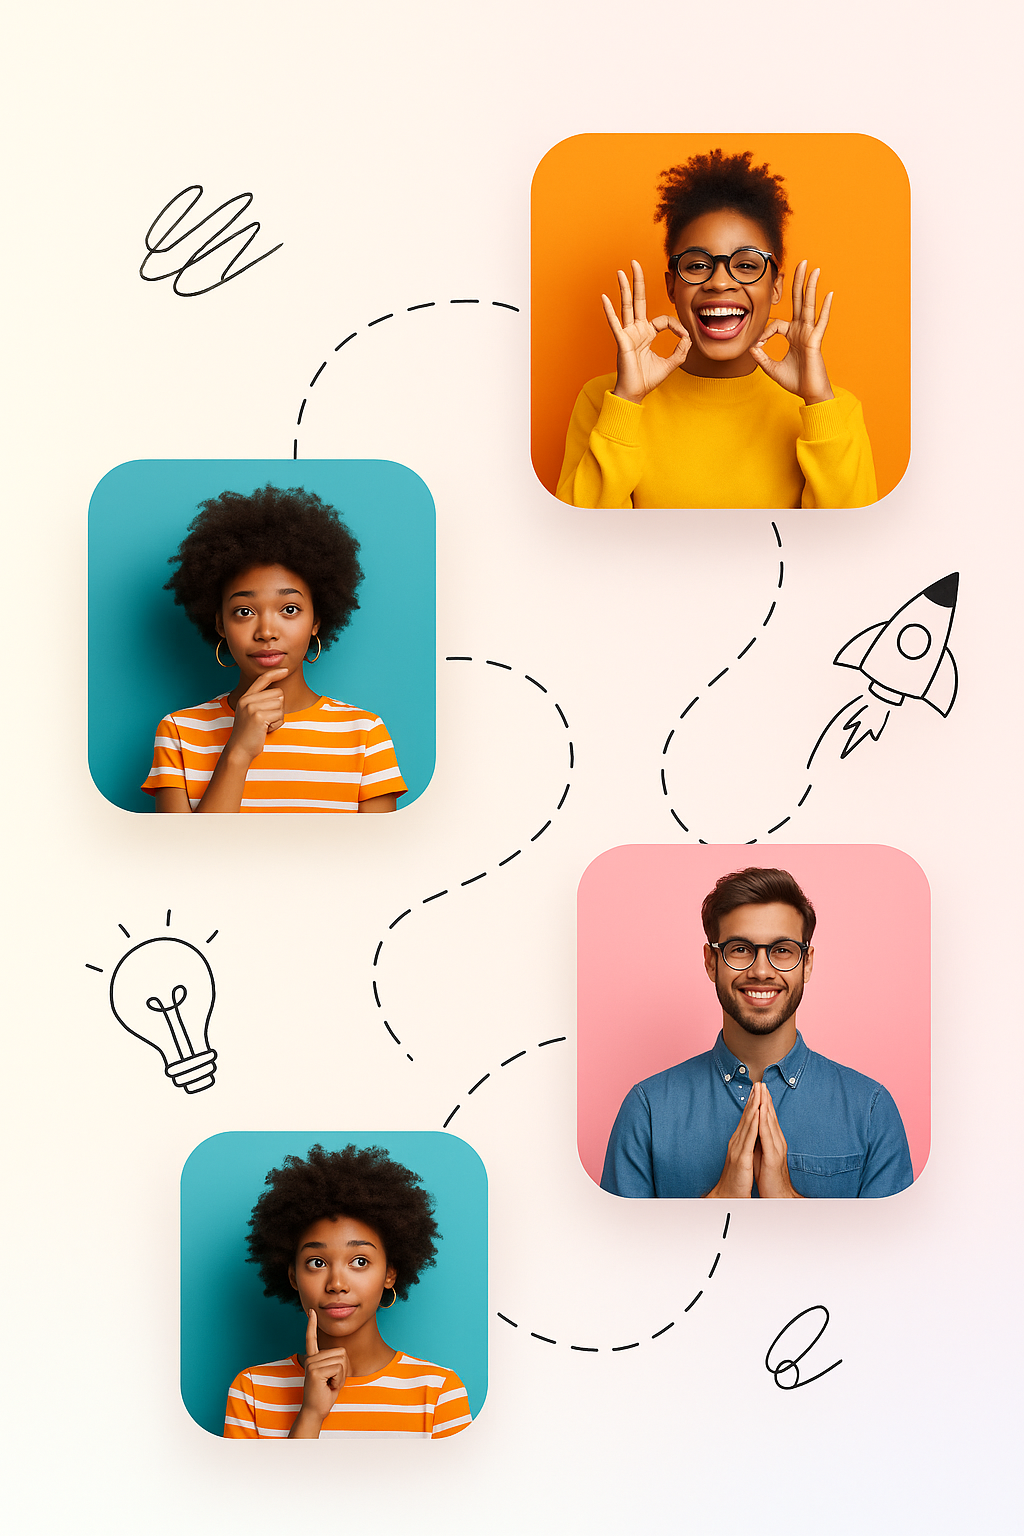
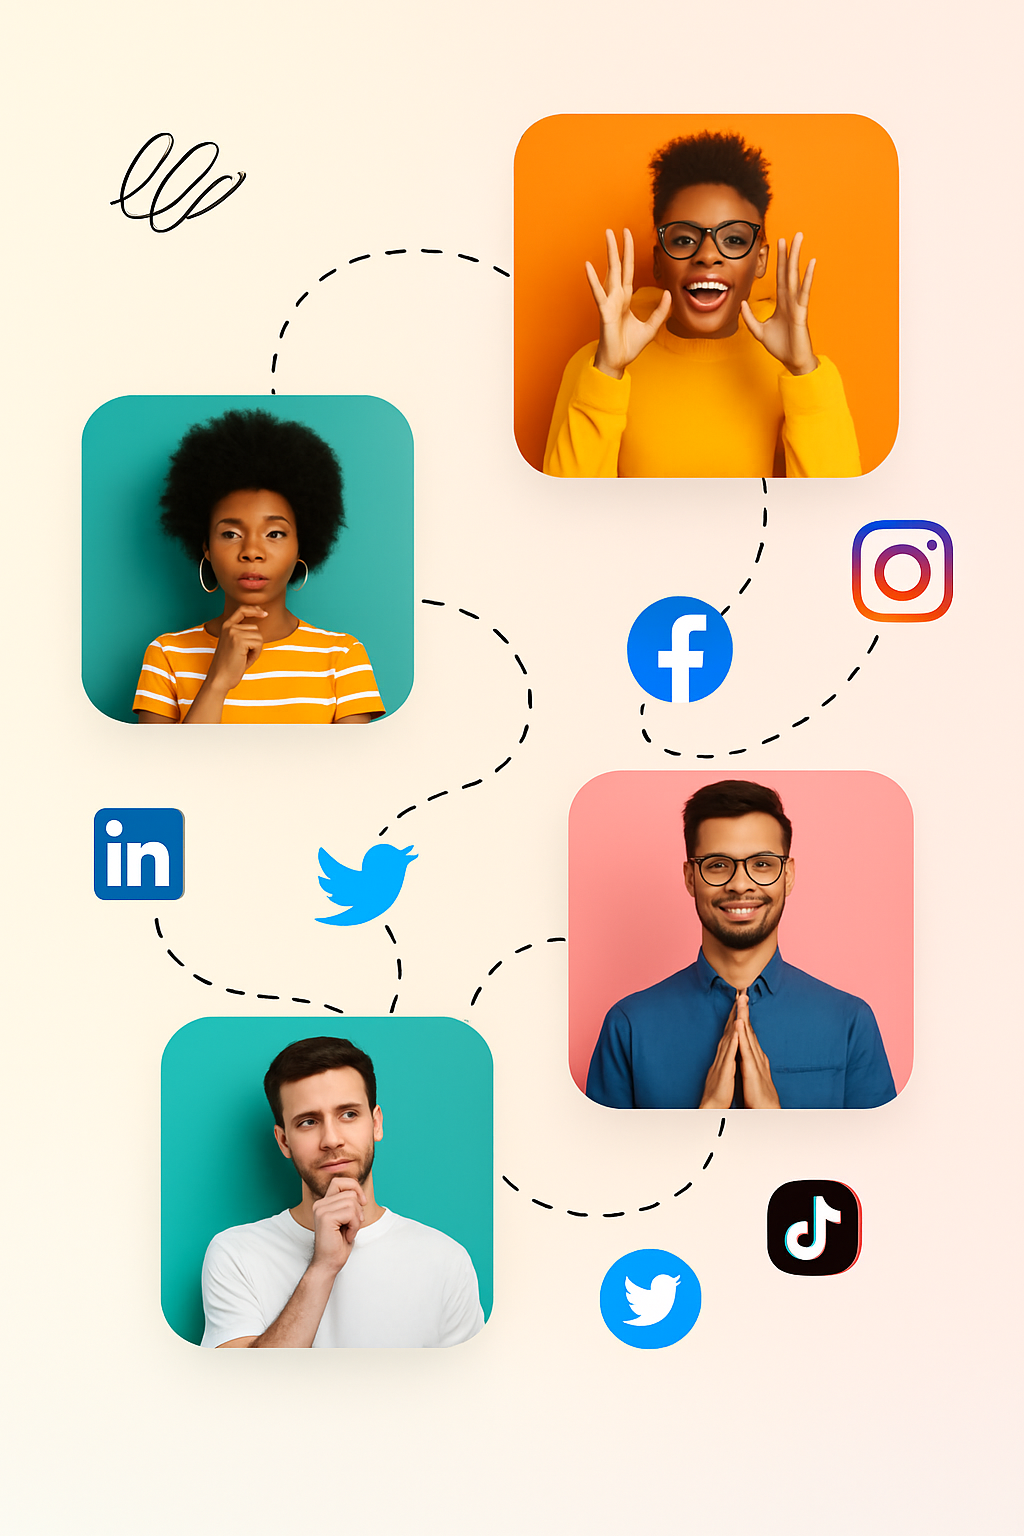
Refactor: Update hero image and layout

diff --git a/src/components/Hero.tsx b/src/components/Hero.tsx
@@ -31,12 +31,12 @@ const Hero = () => {
             </Button>
           </div>
           
-          <div className="relative flex items-center justify-center lg:justify-end">
-            <div className="w-full max-w-[600px] animate-fade-in">
+          <div className="relative flex items-center justify-center lg:justify-end px-4 md:px-6 lg:px-0">
+            <div className="w-full max-w-[90vw] md:max-w-[500px] lg:max-w-[600px] mx-auto lg:mx-0 animate-fade-in">
               <img 
                 src={heroTeamVisual} 
-                alt="Creative team collaboration with connected ideas" 
-                className="w-full h-auto object-contain"
+                alt="Connected team members with social media integration and creative collaboration" 
+                className="w-full h-auto object-contain drop-shadow-lg"
               />
             </div>
           </div>
